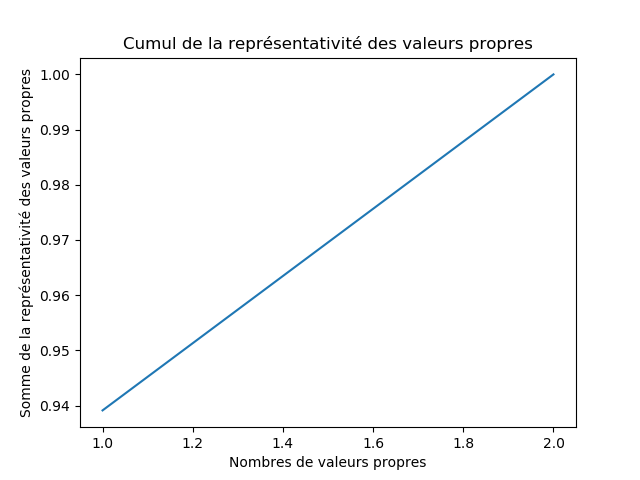
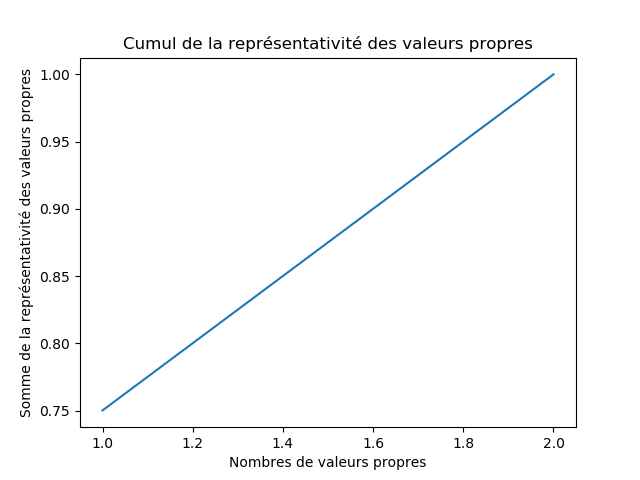
Maj ultime

diff --git a/projet.py b/projet.py
@@ -100,7 +100,17 @@ for i in range(1,len(sources2)):
 		print("false")
 		print(str(i) + " : " + str(len(sources2[i])))
 
-di = fct.FonctionPrincipale(sources2,secteurs2,caracteristique,nbEle,dimx,"Image/",1)
+
+fct.FonctionActif(sources2,secteurs2,caracteristique,nbEle,dimx,"Image7/",0)
+
+
+fct.FonctionPassif(sources2,secteurs2,caracteristique,nbEle,dimx,"Image8/",0)
+
+
+di = fct.FonctionPrincipale(sources2,secteurs2,caracteristique,nbEle,dimx,"Image/",0)
+
+secteurs3 = secteurs2
+sources3 = sources2
 
 for i in range(len(di)):
 	for j in range(i,len(di)):
@@ -108,19 +118,24 @@ for i in range(len(di)):
 			temp = di[i]
 			di[i] = di[j]
 			di[j] = temp
-			temp = secteurs2[i]
-			secteurs2[i] = secteurs2[j]
-			secteurs2[j] = temp
+			temp = secteurs3[i]
+			secteurs3[i] = secteurs3[j]
+			secteurs3[j] = temp
 
 for i in range(len(di)):
-	resultat.write(str(secteurs2[i]) + str(di[i]) + "\n")
+	resultat.write(str(secteurs3[i]) + str(di[i]) + "\n")
 
 for i in range(len(di)):
 	if di[i]>=100:
-		secteurs2.pop(i)
-		sources2.pop(i)
+		secteurs3.pop(i)
+		sources3.pop(i)
+
+
 		
-di = fct.FonctionPrincipale(sources2,secteurs2,caracteristique,nbEle,dimx,"Image/",1)
+di = fct.FonctionPrincipale(sources3,secteurs3,caracteristique,nbEle,dimx,"Image1/",0)
+
+secteurs3 = secteurs2
+sources3 = sources2
 
 for i in range(len(di)):
 	for j in range(i,len(di)):
@@ -128,12 +143,14 @@ for i in range(len(di)):
 			temp = di[i]
 			di[i] = di[j]
 			di[j] = temp
-			temp = secteurs2[i]
-			secteurs2[i] = secteurs2[j]
-			secteurs2[j] = temp
+			temp = secteurs3[i]
+			secteurs3[i] = secteurs3[j]
+			secteurs3[j] = temp
 
 for i in range(len(di)):
-	resultat2.write(str(secteurs2[i]) + str(di[i]) + "\n")
+	resultat2.write(str(secteurs3[i]) + str(di[i]) + "\n")
+
+
 
 caracteristique2 =[]
 caracteristique2 +=[caracteristique[2]]
@@ -146,7 +163,7 @@ for i in range(0,len(sources2)):
 	temp +=[sources2[i][3]]
 	sources3+=[temp]
 
-#fct.FonctionPrincipale(sources3,secteurs2,caracteristique2,nbEle,dimx,"Image2/",1)
+fct.FonctionPrincipale(sources3,secteurs2,caracteristique2,nbEle,dimx,"Image3/",0)
 
 caracteristique2 =[]
 caracteristique2 +=[caracteristique[12]]
@@ -159,7 +176,7 @@ for i in range(0,len(sources2)):
 	temp +=[sources2[i][21]]
 	sources3+=[temp] 
 
-#fct.FonctionPrincipale(sources3,secteurs2,caracteristique2,nbEle,dimx,"Image3/",1)
+fct.FonctionPrincipale(sources3,secteurs2,caracteristique2,nbEle,dimx,"Image4/",0)
 
 caracteristique2 =[]
 caracteristique2 +=[caracteristique[2]]
@@ -174,7 +191,7 @@ for i in range(0,len(sources2)):
 	temp +=[sources2[i][11]]
 	sources3+=[temp]
 
-#fct.FonctionPrincipale(sources3,secteurs2,caracteristique2,nbEle,dimx,"Image4/",1)
+fct.FonctionPrincipale(sources3,secteurs2,caracteristique2,nbEle,dimx,"Image5/",0)
 
 caracteristique2 =[]
 caracteristique2 +=[caracteristique[23]]
@@ -187,13 +204,7 @@ for i in range(0,len(sources2)):
 	temp +=[sources2[i][43]]
 	sources3+=[temp]
 
-#fct.FonctionPrincipale(sources3,secteurs2,caracteristique2,nbEle,dimx,"Image4/",1)
-
-
-#fct.FonctionActif(sources3,secteurs2,caracteristique2,nbEle,dimx,"Image4/",1)
-
-
-#fct.FonctionPassif(sources3,secteurs2,caracteristique2,nbEle,dimx,"Image4/",1)
+fct.FonctionPrincipale(sources3,secteurs2,caracteristique2,nbEle,dimx,"Image6/",0)
 
 
 #Fermeture des fichiers
@@ -204,3 +215,4 @@ Y.close()
 Cactif.close()
 Cpassif.close()
 resultat.close()
+resultat2.close()

diff --git a/fonction.py b/fonction.py
@@ -8,32 +8,38 @@ import matplotlib.pyplot as plt
 import pandas
 import fonction as fct
 
-def FonctionActif(sources3,secteurs2,caracteristique2,nbEle,dimx,adresse,rep):
+def FonctionPassif(sources2,secteurs2,caracteristique,nbEle,dimx,adresse,rep):
 	caracteristique2 =[]
-	caracteristique2 +=[caracteristique[23]]
-	caracteristique2 +=[caracteristique[43]]
+	caracteristique2 +=[caracteristique[0]]
+	for i in range(25,43):
+		caracteristique2 +=[caracteristique[i]]
 
 	sources3 = []
+	
 	for i in range(0,len(sources2)):
 		temp = []
-		temp +=[sources2[i][23]]
-		temp +=[sources2[i][43]]
+		temp +=[sources2[i][0]]
+		for j in range(25,43):
+			temp +=[sources2[i][j]]
 		sources3+=[temp]
 		
-	print(pandas.DataFrame({'Secteur':secteurs2,'Sources':sources3})) 
+	print(pandas.DataFrame({'Secteur':secteurs2,'Sources':sources2})) 
+	print(pandas.DataFrame({'Sources':sources3})) 
+	
 
 	fct.FonctionPrincipale(sources3,secteurs2,caracteristique2,nbEle,dimx,adresse,rep)
 
-def FonctionPassif(sources3,secteurs2,caracteristique2,nbEle,dimx,adresse,rep):
+def FonctionActif(sources2,secteurs2,caracteristique,nbEle,dimx,adresse,rep):
 	caracteristique2 =[]
-	caracteristique2 +=[caracteristique[23]]
-	caracteristique2 +=[caracteristique[43]]
+	for i in range(0,24):
+		caracteristique2 +=[caracteristique[i]]
 
 	sources3 = []
+	
 	for i in range(0,len(sources2)):
 		temp = []
-		temp +=[sources2[i][23]]
-		temp +=[sources2[i][43]]
+		for j in range(0,24):
+			temp +=[sources2[i][j]]
 		sources3+=[temp]
 
 	print(pandas.DataFrame({'Secteur':secteurs2,'Sources':sources3})) 
